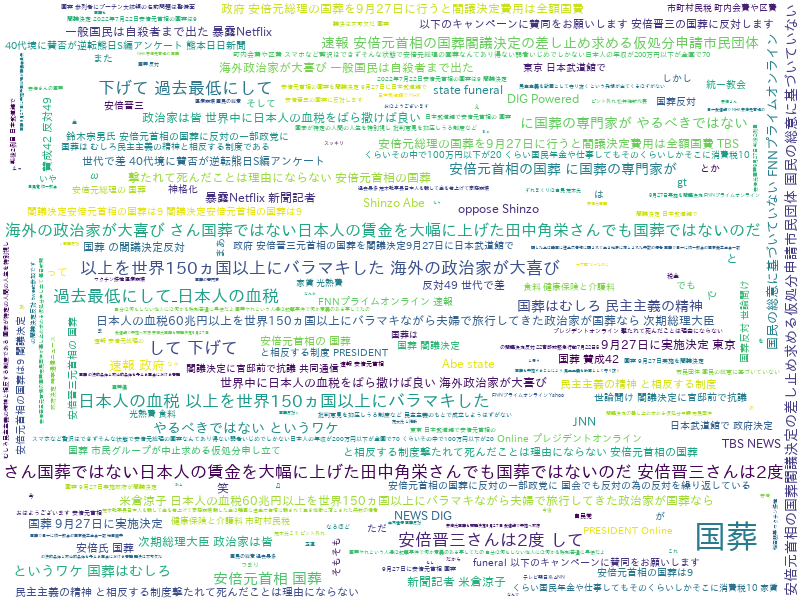
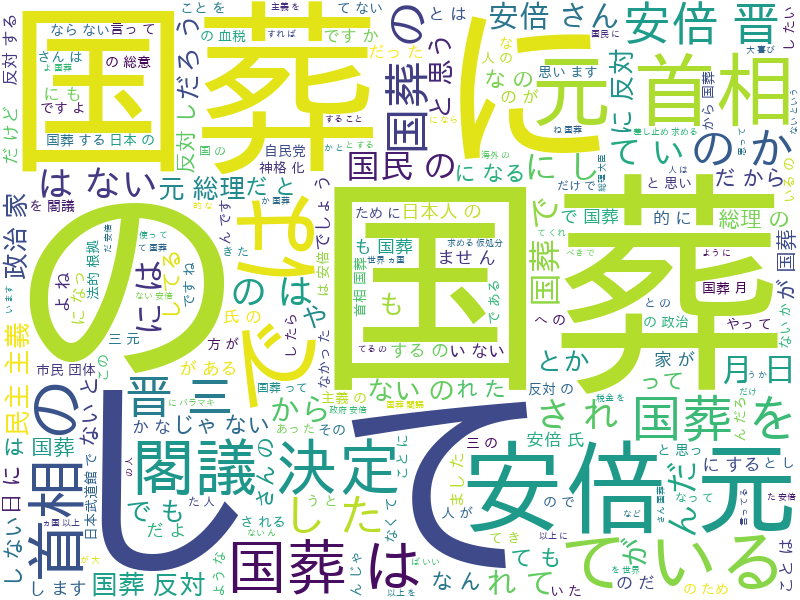
[add]wordCloud

diff --git a/2022s/big_data_processing/final/src/word_cloud.py b/2022s/big_data_processing/final/src/word_cloud.py
@@ -1,29 +1,82 @@
+from pydoc import TextRepr
+from tracemalloc import stop
+from turtle import pos
 from matplotlib import pyplot as plt
 from wordcloud import WordCloud
-from prepare_data import get_score_df, get_word_merged_df
+from wordcloud import STOPWORDS
 import MeCab
+from prepare_data import get_score_df, get_word_merged_df
+
+def wakati_text(tagger, select_conditions, text):
+    node = tagger.parseToNode(text)
+    terms = []
+
+    while node:
+        term = node.surface
+        pos = node.feature.split(',')[0]
+
+        if pos in select_conditions:
+            terms.append(term)
+
+        node = node.next
+
+    text_result = ' '.join(terms)
+    return text_result
+
+def divide_words(df):
+    pos_sentence = ""
+    neg_sentence = ""
+    for _, row in df.iterrows():
+        if row['標準化スコア'] >= 0:
+            pos_sentence += row['テキスト']
+        else:
+            neg_sentence += row['テキスト']
+
+    tagger = MeCab.Tagger("")
+    tagger.parse('')
+
+    select_conditions = ['名詞', '形容詞']
+    pos_words = wakati_text(
+        tagger=tagger,
+        select_conditions=select_conditions,
+        text=pos_sentence
+    )
+    neg_words = wakati_text(
+        tagger=tagger,
+        select_conditions=select_conditions,
+        text=neg_sentence
+    )
+
+    return pos_words, neg_words
 
 data = get_score_df()
 
-text = ""
-for index, row in data.iterrows():
-    print('----------------------')
-    print(row["テキスト"])
-    text += row["テキスト"]
-
-print(text)
-
-m = MeCab.Tagger("-Owakati")
-parsed = m.parse(text)
-splitted = ' '.join([x.split('\t')[0] for x in parsed.splitlines()[:-1]])
-
-print(splitted)
-print(text)
+pos_words, neg_words = divide_words(data)
 
 fpath = "./ipaexg.ttf"
+
+stop_words = [
+    '国葬',
+    '安倍',
+    'の',
+    'ん',
+    'これ',
+    'こと',
+]
+
+for word in stop_words:
+    STOPWORDS.add(word)
+
 wordc = WordCloud(background_color='white', 
                     width=800, 
                     height=600, 
                     font_path=fpath,
-                    ).generate(text)
-wordc.to_file('wordcloud.png')
+                    ).generate(pos_words)
+wordc.to_file('pos.png')
+
+wordc = WordCloud(background_color='white', 
+                    width=800, 
+                    height=600, 
+                    font_path=fpath,
+                    ).generate(neg_words)
+wordc.to_file('neg.png')

diff --git a/2022s/big_data_processing/final/src/prepare_data.py b/2022s/big_data_processing/final/src/prepare_data.py
@@ -16,7 +16,6 @@ def get_word_merged_df():
 
     word_lists = []
 
-
     for i, row in enumerate(data):
         try:
             for t in analyzer.analyze(row[0]):
@@ -50,6 +49,9 @@ def get_score_df():
         result.append([i, text, score, score_r])
 
     score_df = pd.DataFrame(result, columns=['No.', 'テキスト', '累計スコア', '標準化スコア']).sort_values(by='標準化スコア').reset_index(drop=True)
-    print(score_df)
 
     return score_df
+
+if __name__ == '__main__':
+    df = get_score_df()
+    print(df)

diff --git a/2022s/big_data_processing/final/scrape_twitter/main.py b/2022s/big_data_processing/final/scrape_twitter/main.py
@@ -10,7 +10,7 @@ def run():
     total = 100000
 
     try:
-        q = "国葬 exclude:nativeretweets"
+        q = "安倍 exclude:nativeretweets"
         for i, tweet in enumerate(tweepy.Cursor(api.search_tweets, q=q, result_type="mixed", tweet_mode='extended').items(total)):
             text, ok = is_valid_tweet(tweet)
             if ok == False:
